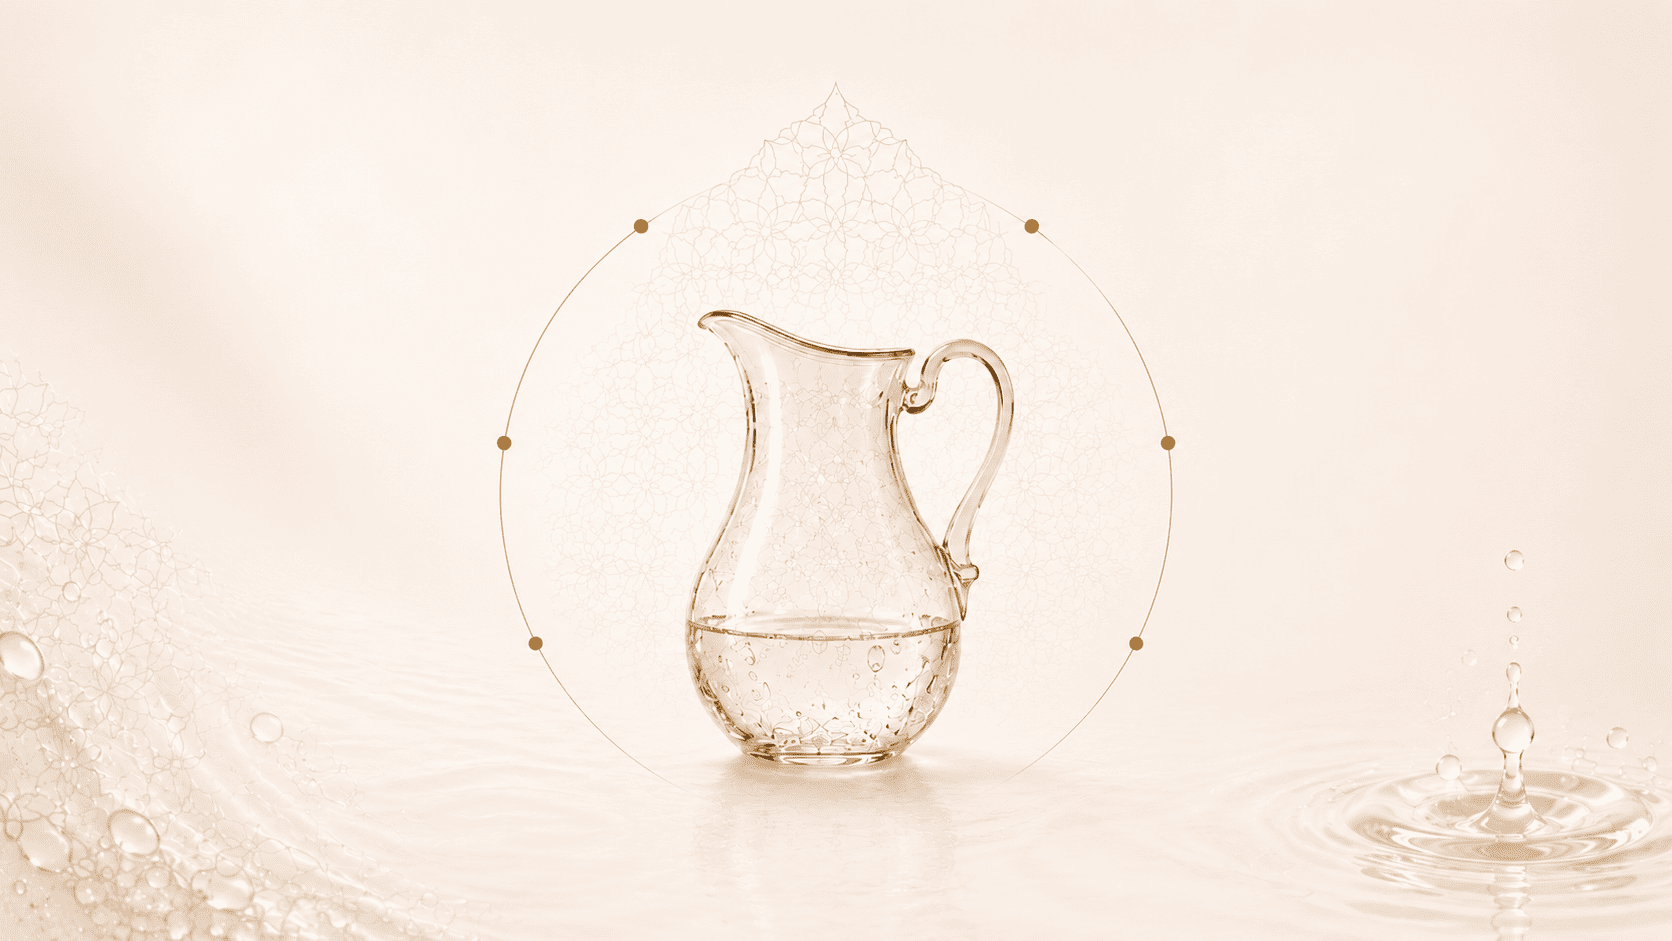
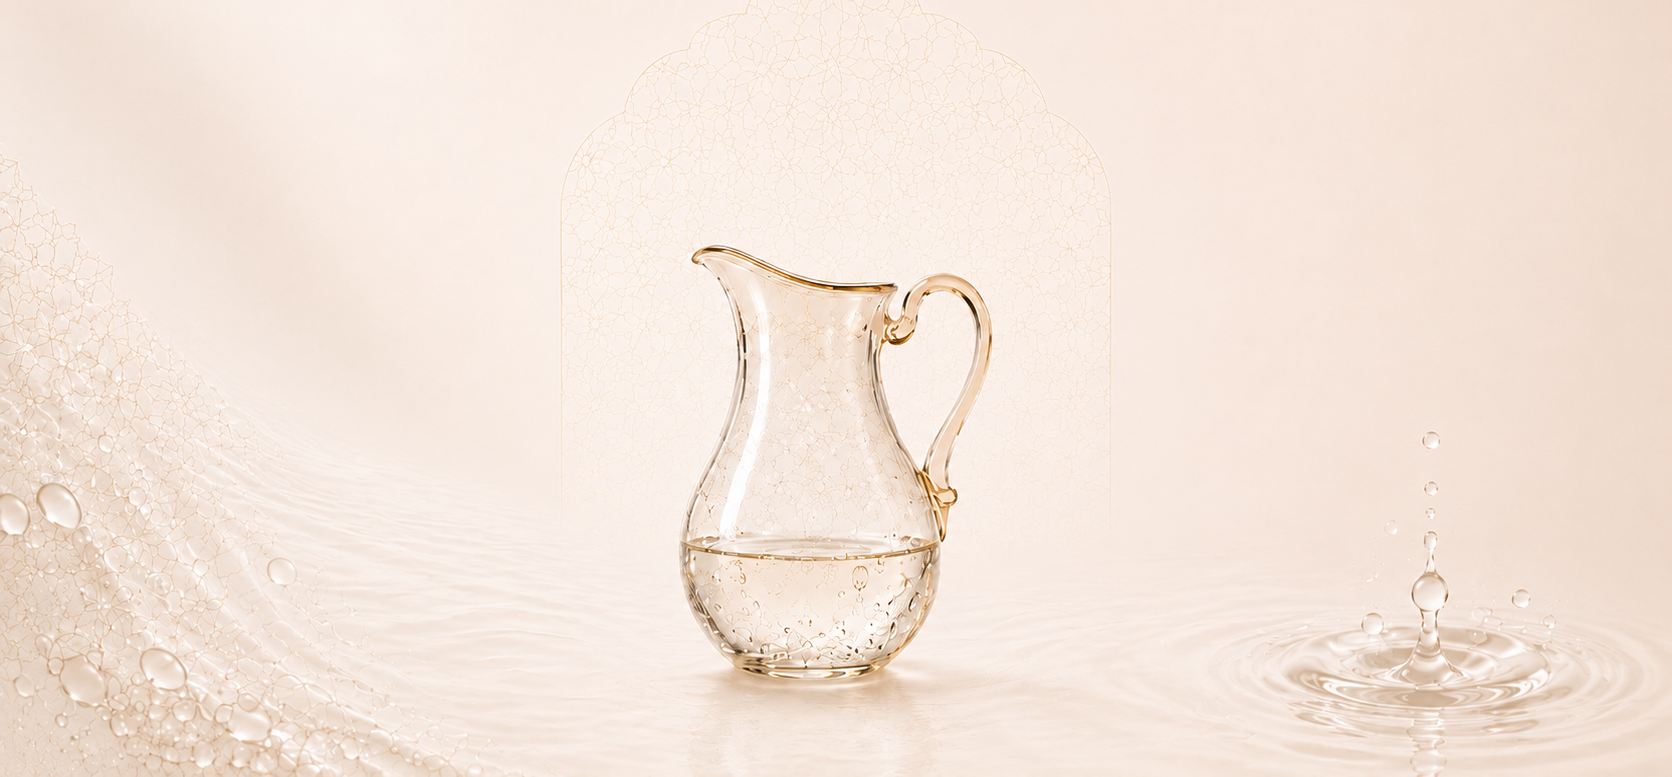
add section advantages

diff --git a/src/components/toza-koza/purity.tsx b/src/components/toza-koza/purity.tsx
@@ -1,0 +1,142 @@
+import Image from "next/image";
+
+type Feature = { icon: string; title: string; desc: string };
+
+const LEFT: Feature[] = [
+  {
+    icon: "full-water.svg",
+    title: "99% воды",
+    desc: "Мягкая формула на основе очищенной воды",
+  },
+  {
+    icon: "no_alcohol.svg",
+    title: "Без спирта",
+    desc: "Не содержит спирта, безопасна для чувствительной кожи",
+  },
+  {
+    icon: "textile.svg",
+    title: "Мягкие",
+    desc: "Нежные и приятные на ощупь, подходят для всей семьи",
+  },
+];
+
+const RIGHT: Feature[] = [
+  {
+    icon: "washable.svg",
+    title: "Смываемые",
+    desc: "Можно смывать в унитаз, растворяется в воде",
+  },
+  {
+    icon: "no-pvc.svg",
+    title: "Без ПВХ",
+    desc: "Не содержат ПВХ, безопасны для вас и окружающей среды",
+  },
+  {
+    icon: "halal-certified_ellipse.svg",
+    title: "Halal Certified",
+    desc: "Сертифицировано по стандартам Halal",
+  },
+];
+
+function FeatureItem({ icon, title, desc }: Feature) {
+  return (
+    <li className="flex items-start gap-3.5">
+      <img
+        src={`/tozaKoza/icons/${icon}`}
+        alt=""
+        aria-hidden="true"
+        className="h-12 w-12 shrink-0 lg:h-14 lg:w-14"
+      />
+      <div className="max-w-[220px]">
+        <h3 className="font-cormorant text-xl font-bold leading-tight text-[#052439] lg:text-2xl">
+          {title}
+        </h3>
+        <p className="mt-1 text-xs leading-relaxed text-[#4D5563]">{desc}</p>
+      </div>
+    </li>
+  );
+}
+
+/** Custom decorative orbit (dotted ellipse + accent dots) around the jug. Desktop only. */
+function OrbitDecoration() {
+  return (
+    <svg
+      aria-hidden="true"
+      viewBox="0 0 460 480"
+      fill="none"
+      className="pointer-events-none absolute left-1/2 top-1/2 hidden h-[480px] w-[460px] -translate-x-1/2 -translate-y-1/2 lg:block"
+    >
+      <ellipse
+        cx="230"
+        cy="240"
+        rx="200"
+        ry="228"
+        stroke="#B89A56"
+        strokeOpacity="0.45"
+        strokeWidth="1.5"
+        strokeDasharray="1.5 8"
+      />
+      <circle cx="30" cy="240" r="4" fill="#B89A56" />
+      <circle cx="430" cy="240" r="4" fill="#B89A56" />
+    </svg>
+  );
+}
+
+export function TozaKozaPurity() {
+  return (
+    <section className="relative overflow-hidden bg-[#FAF7F1]">
+      <Image
+        src="/tozaKoza/section2-background.png"
+        alt=""
+        fill
+        sizes="100vw"
+        className="object-cover object-center"
+      />
+      {/* light wash so the stacked text stays readable over the scene on mobile */}
+      <div aria-hidden="true" className="absolute inset-0 bg-[#FAF7F1]/45 min-[600px]:bg-transparent" />
+
+      <div className="relative z-10 container mx-auto px-4 py-14 md:py-20">
+        {/* Heading */}
+        <h2 className="flex items-center justify-center gap-3 text-center font-cormorant text-2xl md:gap-4 md:text-[2.5rem] font-bold uppercase tracking-wide text-[#052439]">
+          <span aria-hidden="true" className="text-lg text-[#B89A56] md:text-2xl">
+            ✦
+          </span>
+          <span>
+            Чистота, которую вы <br className="lg:hidden" />чувствуете
+          </span>
+          <span aria-hidden="true" className="text-lg text-[#B89A56] md:text-2xl">
+            ✦
+          </span>
+        </h2>
+
+        {/* Divider — two dots on a line */}
+        <div
+          aria-hidden="true"
+          className="mt-4 flex items-center justify-center gap-2.5 md:mt-5"
+        >
+          <span className="h-px w-12 bg-gradient-to-r from-transparent to-[#B89A56]/60" />
+          <span className="h-1.5 w-1.5 rounded-full bg-[#B89A56]" />
+          <span className="h-1.5 w-1.5 rounded-full bg-[#B89A56]" />
+          <span className="h-px w-12 bg-gradient-to-l from-transparent to-[#B89A56]/60" />
+        </div>
+
+        {/* Features: one column on mobile, two columns flanking the jug on desktop */}
+        <div className="relative mx-auto mt-10 max-w-5xl md:mt-14">
+          <OrbitDecoration />
+          <div className="relative flex flex-col gap-8 min-[600px]:flex-row min-[600px]:justify-between min-[600px]:gap-0">
+            <ul className="flex flex-col gap-8 min-[600px]:min-h-[440px] min-[600px]:max-w-[42%] min-[600px]:justify-between lg:min-h-[480px] lg:max-w-[280px]">
+              {LEFT.map((f) => (
+                <FeatureItem key={f.title} {...f} />
+              ))}
+            </ul>
+            <ul className="flex flex-col gap-8 min-[600px]:min-h-[440px] min-[600px]:max-w-[42%] min-[600px]:justify-between lg:min-h-[480px] lg:max-w-[280px]">
+              {RIGHT.map((f) => (
+                <FeatureItem key={f.title} {...f} />
+              ))}
+            </ul>
+          </div>
+        </div>
+      </div>
+    </section>
+  );
+}

diff --git a/src/components/toza-koza/hero.tsx b/src/components/toza-koza/hero.tsx
@@ -32,11 +32,11 @@ export function TozaKozaHero() {
       />
 
       {/* Content */}
-      <div className="relative z-10 container mx-auto px-4 flex min-h-[100svh] flex-col justify-start pt-24 pb-12 md:pt-28 lg:justify-center">
+      <div className="relative z-10 container mx-auto px-4 flex min-h-[100svh] flex-col justify-start pt-24 pb-12 md:pt-28 min-[600px]:justify-center">
         <div className="max-w-xl mt-[25px] min-[600px]:mt-0">
           <h1 className="font-cormorant font-bold leading-[0.92] tracking-tight text-[clamp(3.25rem,9vw,6.875rem)]">
             <span
-              className="inline-block w-fit bg-clip-text text-transparent min-[900px]:block"
+              className="inline-block w-fit bg-clip-text text-transparent lg:block"
               style={{
                 backgroundImage:
                   "linear-gradient(90deg, #1b6c53 0%, #1f745a 20%, #2a8a6d 35%, #3daf8d 50%, #3fb391 55%, #2d8a6f 75%, #1d5c49 100%)",
@@ -45,17 +45,17 @@ export function TozaKozaHero() {
               TOZA
             </span>{" "}
             <span
-              className="inline-block w-fit bg-clip-text text-transparent min-[900px]:block"
+              className="inline-block w-fit bg-clip-text text-transparent lg:block"
               style={{
                 backgroundImage:
-                  "linear-gradient(45deg, #c5a059 0%, #e8d089 50%, #c5a059 100%)",
+                  "linear-gradient(45deg, #c5a059 50%, #e8d089 100%, #c5a059 100%)",
               }}
             >
               KO’ZA
             </span>
           </h1>
 
-          <p className="font-cormorant font-bold text-[#0E5A4F] text-xl lg:text-2xl max-w-[20rem] mt-5 mb-7 md:mb-8">
+          <p className="font-cormorant font-bold text-[#0E5A4F] text-2xl lg:text-2xl max-w-[20rem] mt-5 mb-7 md:mb-8">
             Влажная туалетная бумага премиального качества
           </p>
 

diff --git a/src/app/[locale]/cases/wet-wipes/page.tsx b/src/app/[locale]/cases/wet-wipes/page.tsx
@@ -1,6 +1,7 @@
 import type { Metadata } from "next";
 import { setRequestLocale } from "next-intl/server";
 import { TozaKozaHero } from "@/components/toza-koza/hero";
+import { TozaKozaPurity } from "@/components/toza-koza/purity";
 
 export const metadata: Metadata = {
   title: "TOZA KO'ZA — влажная туалетная бумага премиального качества",
@@ -19,6 +20,7 @@ export default async function WetWipesPage({
   return (
     <main id="main">
       <TozaKozaHero />
+      <TozaKozaPurity />
     </main>
   );
 }